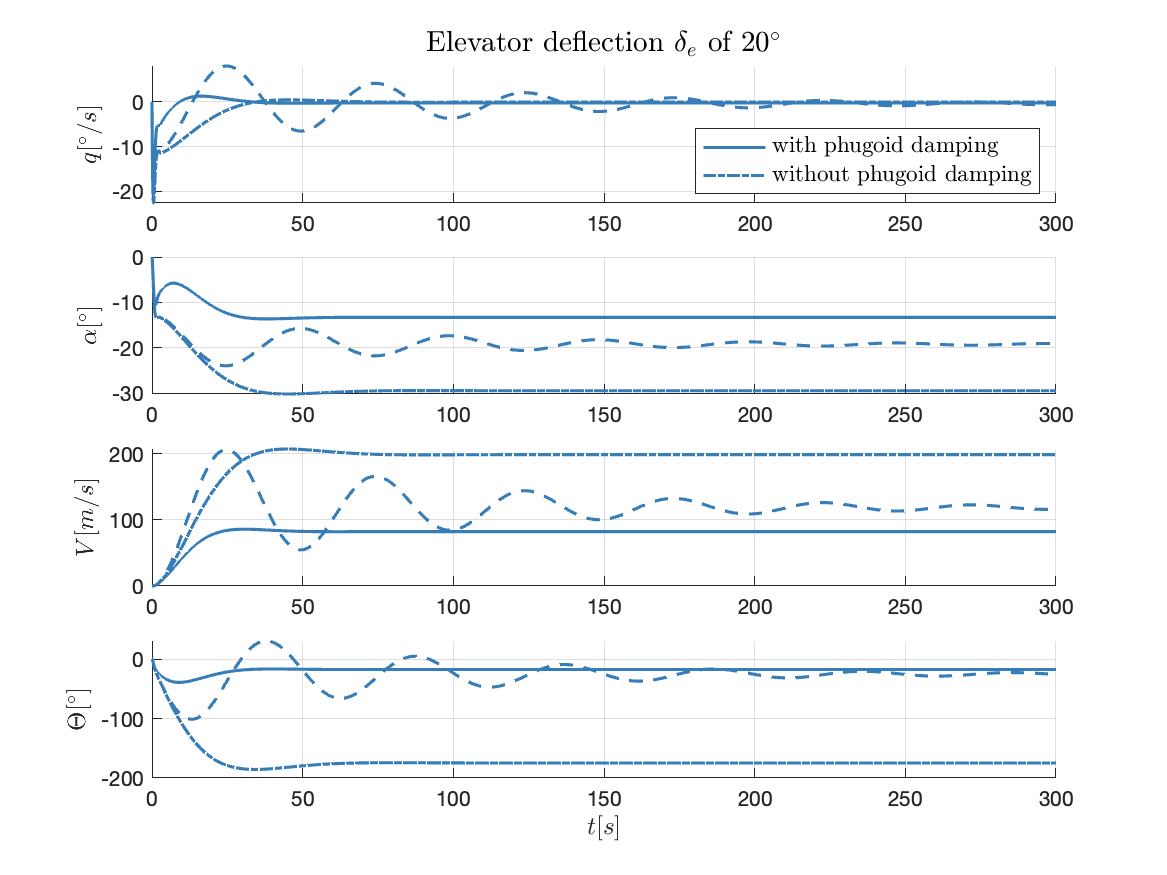
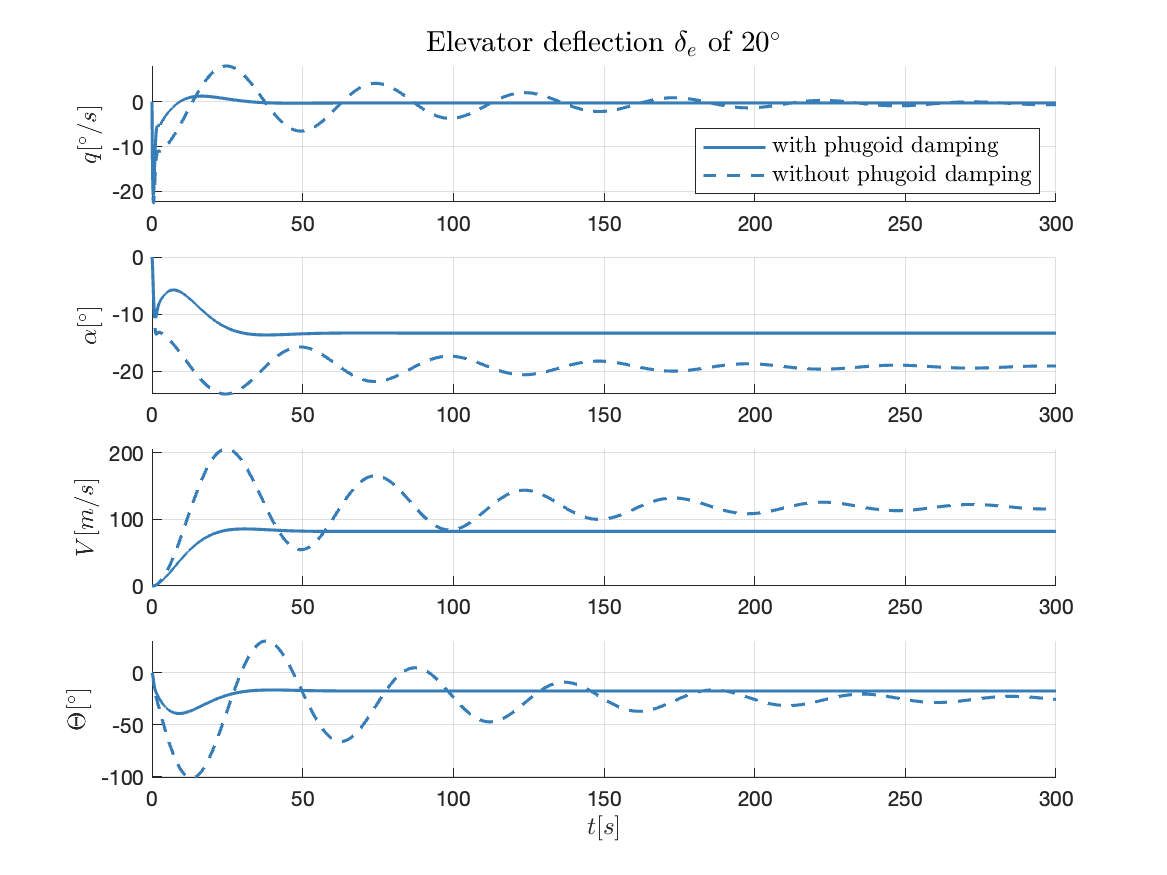
Fix some minor errors

diff --git a/task2.m b/task2.m
@@ -12,8 +12,9 @@ fprintf("For the standard negative feedback, the root locus shows that the syste
 %figure(4); rlocus(-F_qdeltae); set(findall(gca,'Type','Line'),'LineWidth',1.5,'MarkerSize',10); grid on
 K_rlocus = .1683;
 
+Tsim_long = 10;
 sp_approx_rlocus = feedback(sp_approx,K_rlocus,2,1,1);
-[Y_sp_approx_rlocus, T_new] = step(delta_e_max*sp_approx_rlocus(:,2),Tsim_long);
+[Y_sp_approx_rlocus, T_rlocus] = step(delta_e_max*sp_approx_rlocus(:,2),Tsim_long);
 Y_sp_approx_rlocus = rad2deg(Y_sp_approx_rlocus);
 
 % Plot step response
@@ -22,7 +23,7 @@ label_y = ["$q [^\circ/s]$","$\alpha [^\circ]$"];
 for i = 1:2
     subplot(2,1,i); hold all; ylabel(label_y(i),'Interpreter','latex','FontSize',12);
     plot(T,Y_sp_approx(:,i),'LineWidth',1.5,'Color',plot_colors(1,:),'LineStyle','--');
-    plot(T_new,Y_sp_approx_rlocus(:,i),'LineWidth',1.5,'Color',plot_colors(1,:),'LineStyle','-');
+    plot(T_rlocus,Y_sp_approx_rlocus(:,i),'LineWidth',1.5,'Color',plot_colors(1,:),'LineStyle','-');
 end
 hold off
 grid on
@@ -120,7 +121,6 @@ label_y = ["$q [^\circ/s]$","$\alpha [^\circ]$","$V [m/s]$","$\Theta [^\circ]$"]
 for i = 1:4
     subplot(4,1,i); hold all; ylabel(label_y(i),'Interpreter','latex','FontSize',12);
     plot(T_new,Y_Full_long_new(:,i),'LineWidth',1.5,'Color',plot_colors(1,:),'LineStyle','-');
-    plot(T_new2,Y_Full_long_new2(:,i),'LineWidth',1.5,'Color',plot_colors(1,:),'LineStyle','-.')
     plot(T_place,Y_Full_long_place(:,i),'LineWidth',1.5,'Color',plot_colors(1,:),'LineStyle','--');
 end
 hold off
